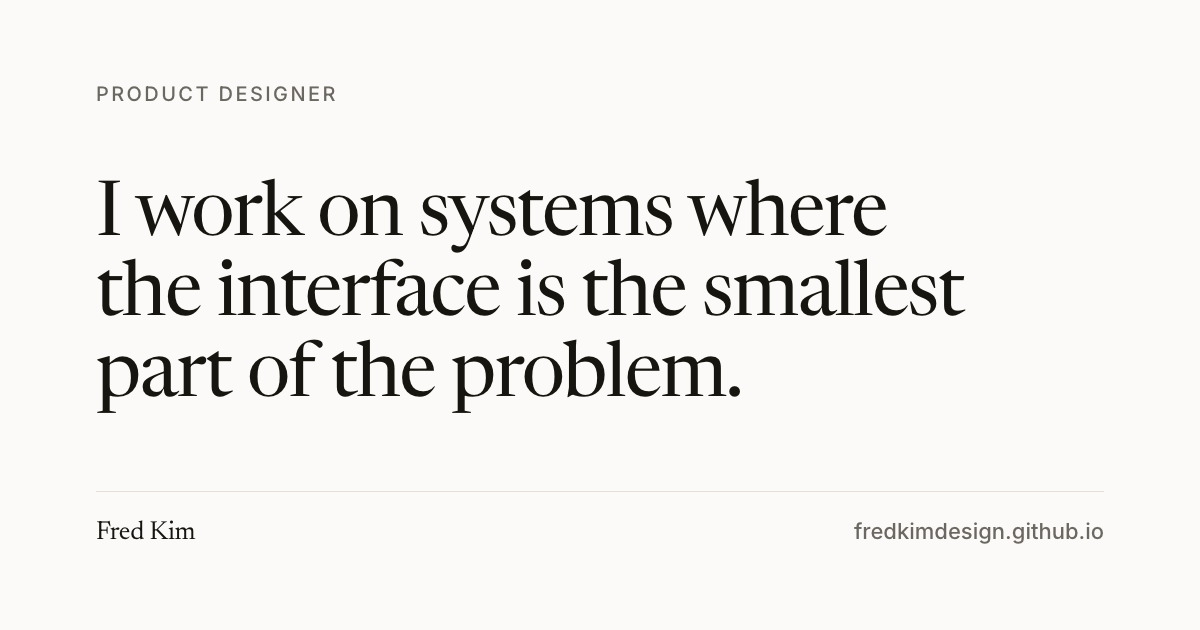
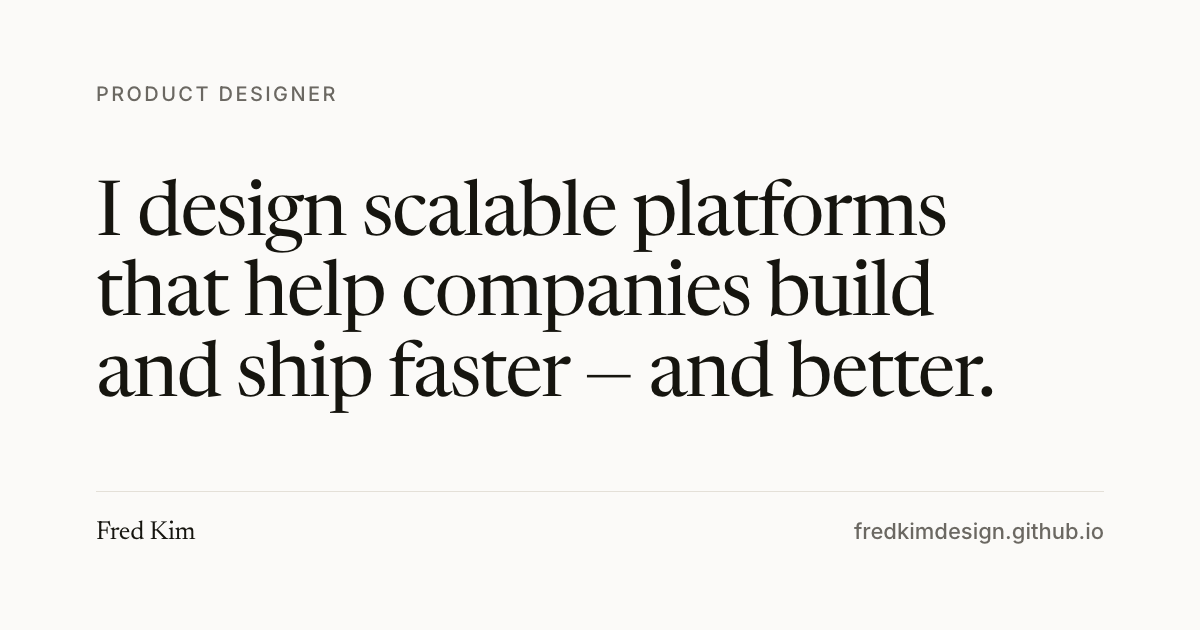
Hero states what the work builds, not what it isn't
"I design scalable platforms that help companies build and ship faster —
and better." The site description and the social card say the same.

Changed region(s): [[0.0617, 0.2714, 0.8325, 0.6635]]

diff --git a/src/app/page.tsx b/src/app/page.tsx
@@ -11,8 +11,8 @@ export default function Home() {
       <section className="py-24 sm:py-36">
         <div className="eyebrow mb-6">Product designer</div>
         <h1 className="font-display max-w-3xl text-4xl leading-[1.06] tracking-tight text-balance sm:text-6xl">
-          I work on systems where the interface is the smallest part of the
-          problem.
+          I design scalable platforms that help companies build and ship
+          faster — and better.
         </h1>
         <p className="measure prose-body mt-10 text-muted">
           Currently at Walmart. Previously Sam&rsquo;s Club, Twitter, and Tesla.

diff --git a/src/app/layout.tsx b/src/app/layout.tsx
@@ -11,7 +11,7 @@ const newsreader = Newsreader({
 });
 
 const description =
-  "Product designer working on consumer and enterprise systems at Walmart, Sam's Club, Twitter, and Tesla.";
+  "Product designer building scalable platforms that help companies build and ship faster and better. Walmart, Sam's Club, Twitter, Tesla.";
 
 export const metadata: Metadata = {
   metadataBase: new URL("https://fredkimdesign.github.io"),
